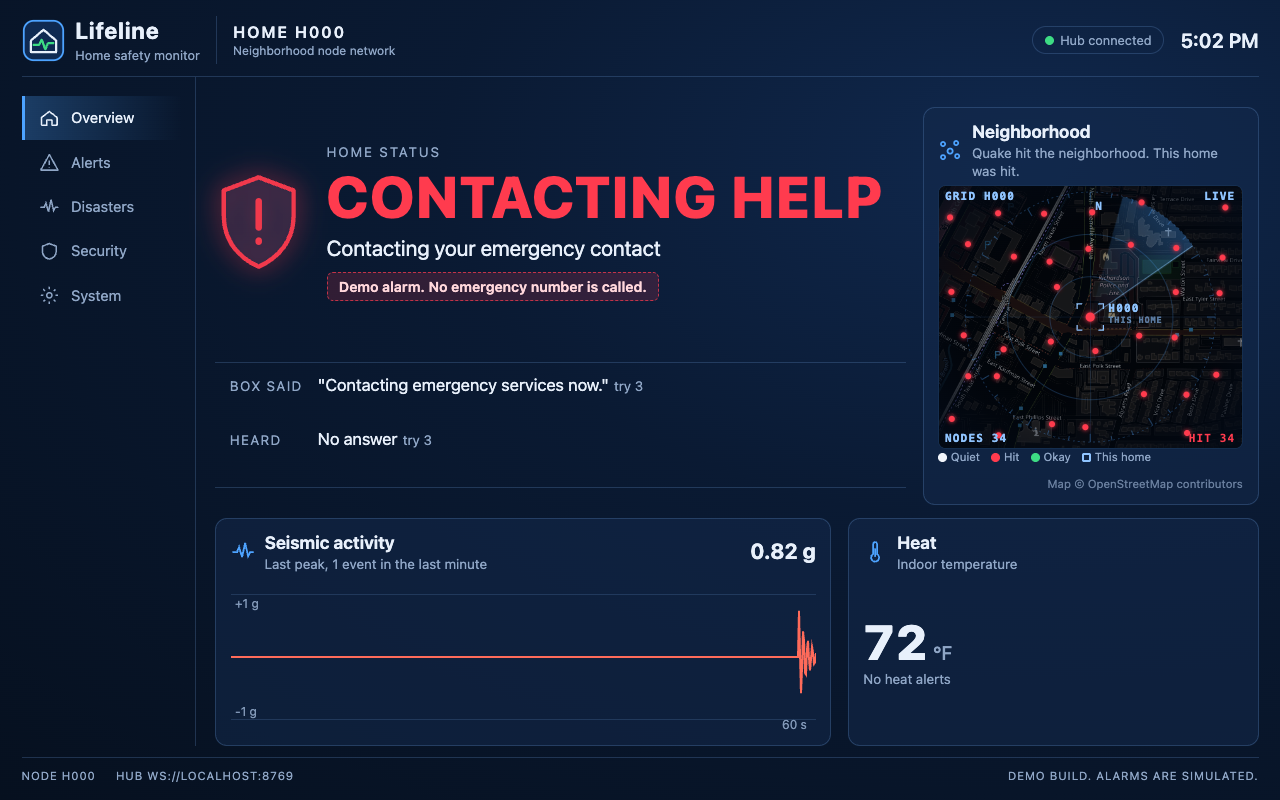
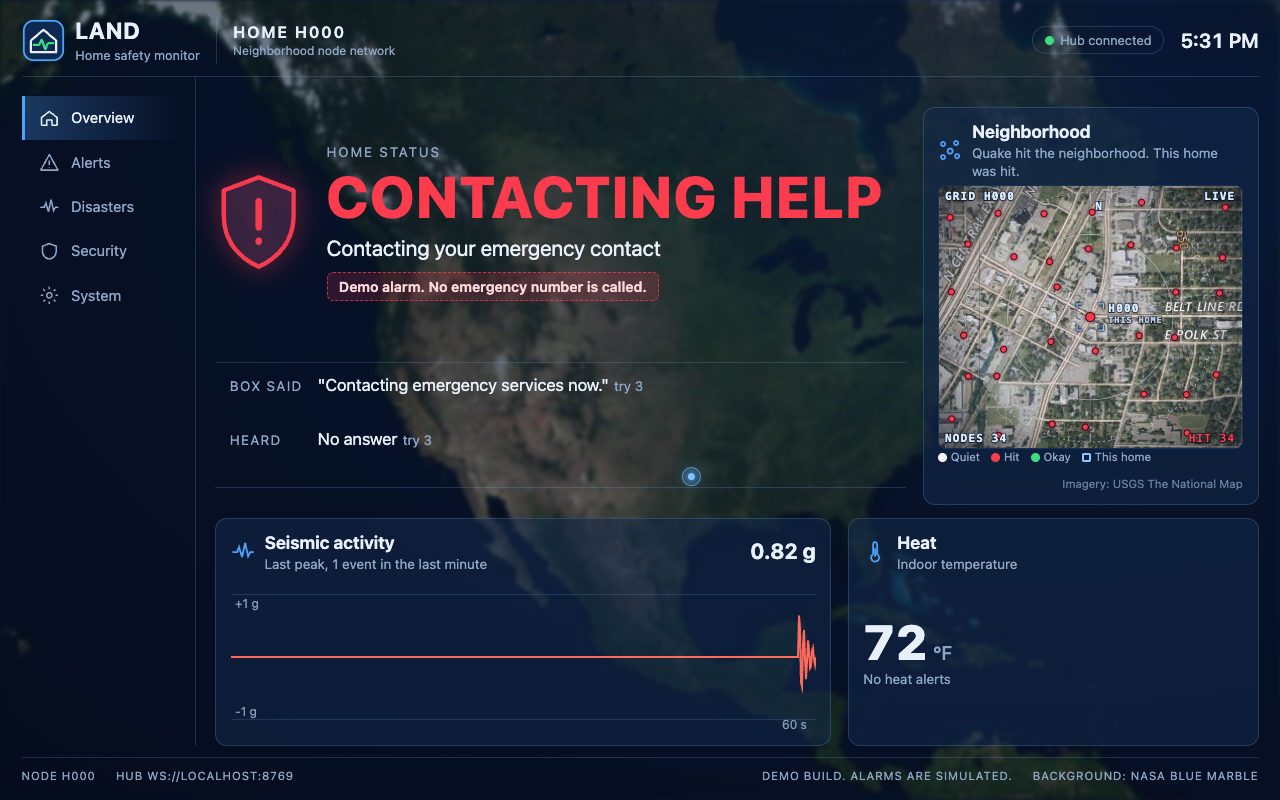
Home screen: USGS satellite neighborhood map and NASA Blue Marble background

diff --git a/software/web/home/index.html b/software/web/home/index.html
@@ -158,27 +158,32 @@
   #map { flex: 1; width: 100%; min-height: 0; margin-top: 0.4em; }
   .map .legend { display: flex; gap: 1em; color: var(--muted); font-size: calc(var(--u) * 0.85); flex-wrap: wrap; }
   .map .legend i { display: inline-block; width: 0.75em; height: 0.75em; border-radius: 50%; margin-right: 0.35em; vertical-align: -0.05em; }
-  #map { background: radial-gradient(circle at 50% 50%, rgba(20, 60, 110, 0.35), rgba(3, 10, 22, 0.6) 70%); border-radius: 8px; border: 1px solid rgba(77, 163, 255, 0.18); }
-  .basemap { filter: invert(1) hue-rotate(185deg) brightness(0.75) contrast(1.15) saturate(0.55); opacity: 0.85; }
+  #map { background: #0b1a2e; border-radius: 8px; border: 1px solid rgba(77, 163, 255, 0.18); }
   .map .credit { margin-left: auto; opacity: 0.7; }
-  .range { fill: none; stroke: rgba(77, 163, 255, 0.28); stroke-width: 0.8; }
+  .range { fill: none; stroke: rgba(255, 255, 255, 0.6); stroke-width: 0.8; filter: drop-shadow(0 0 0.6px rgba(3, 10, 22, 0.9)); }
   .range:last-of-type { stroke-dasharray: 2 3; }
-  .cross { stroke: rgba(77, 163, 255, 0.16); stroke-width: 0.6; }
-  .tick { stroke: rgba(77, 163, 255, 0.45); stroke-width: 0.8; }
-  .sweep { transform-origin: 150px 130px; animation: spin 5s linear infinite; }
-  .sweep-edge { stroke: rgba(140, 200, 255, 0.7); stroke-width: 1; }
+  .cross { stroke: rgba(255, 255, 255, 0.25); stroke-width: 0.5; }
+  .tick { stroke: rgba(255, 255, 255, 0.7); stroke-width: 0.7; }
+  .sweep { transform-origin: 150px 130px; animation: spin 6s linear infinite; }
+  .sweep-edge { stroke: rgba(225, 240, 255, 0.5); stroke-width: 0.7; }
   @keyframes spin { to { transform: rotate(360deg); } }
-  .hud { fill: #8fc4ff; font: 600 8px ui-monospace, "SF Mono", Menlo, Consolas, monospace; letter-spacing: 0.1em; font-size: 11px; }
-  .hud.dim { fill: rgba(143, 196, 255, 0.6); font-size: 8.5px; }
+  .hud { fill: #d6ebff; font: 600 8px ui-monospace, "SF Mono", Menlo, Consolas, monospace; letter-spacing: 0.1em; font-size: 11px; paint-order: stroke; stroke: rgba(3, 10, 22, 0.75); stroke-width: 2.5px; stroke-linejoin: round; }
+  .hud.dim { fill: rgba(214, 235, 255, 0.85); font-size: 8.5px; }
   .hud.alarm { fill: var(--danger); }
-  .reticle { fill: none; stroke: #8fc4ff; stroke-width: 1.3; }
-  .node { fill: #f2f6fc; transition: fill 0.25s; }
+  .reticle { fill: none; stroke: #8fc4ff; stroke-width: 1.3; filter: drop-shadow(0 0 1px #030a16) drop-shadow(0 0 1px #030a16); }
+  .node { fill: #f2f6fc; stroke: rgba(3, 10, 22, 0.85); stroke-width: 1.1; transition: fill 0.25s; }
   .node.hit { fill: var(--danger); }
   .node.ok { fill: var(--ok); }
   .wave { fill: none; stroke: var(--danger); stroke-width: 2; opacity: 0; }
   .wave.go { animation: wave 1.6s ease-out forwards; }
   @keyframes wave { from { r: 4; opacity: 0.9; } to { r: 160; opacity: 0; } }
   @media (prefers-reduced-motion: reduce) { .wave.go, .sweep { animation: none; } .node { transition: none; } }
+
+  /* NASA Blue Marble, pinned on Richardson, TX */
+  .earth { position: fixed; inset: 0; width: 100%; height: 100%; z-index: -1; pointer-events: none; }
+  .earth image { opacity: 0.4; filter: blur(2px) brightness(1.2) saturate(1.1); }
+  .earth .pin { fill: #7cc4ff; filter: drop-shadow(0 0 4px #4da3ff) drop-shadow(0 0 10px #4da3ff); }
+  .earth .pin-halo { fill: rgba(77, 163, 255, 0.18); stroke: rgba(124, 196, 255, 0.6); stroke-width: 1; }
 
   footer {
     grid-column: 1 / -1; display: flex; gap: calc(var(--u) * 1.5); align-items: center;
@@ -189,6 +194,12 @@
 </style>
 </head>
 <body data-status="PROTECTED">
+<!-- GIBS BlueMarble_NextGeneration zoom 4, tiles x 1-5, y 4-7, cropped 150 px from the top. The pin is lat 32.9483, lon -96.7299 in that image. -->
+<svg class="earth" viewBox="0 0 1280 800" preserveAspectRatio="xMidYMid slice" aria-hidden="true">
+  <image href="map/blue-marble-north-america.jpg" width="1280" height="800"/>
+  <circle class="pin-halo" cx="691.4" cy="476.6" r="9"/>
+  <circle class="pin" cx="691.4" cy="476.6" r="3.5"/>
+</svg>
 <div class="app">
   <header>
     <div class="brand">
@@ -261,7 +272,7 @@
         <div><div class="card-title">Neighborhood</div><div class="card-sub" id="map-sub">All homes quiet</div></div>
       </div>
       <svg id="map" viewBox="0 0 300 260" aria-label="Neighborhood node map"></svg>
-      <div class="legend"><span><i style="background:#f2f6fc"></i>Quiet</span><span><i style="background:var(--danger)"></i>Hit</span><span><i style="background:var(--ok)"></i>Okay</span><span><i style="border:2px solid #8fc4ff;border-radius:2px"></i>This home</span><span class="credit">Map &copy; OpenStreetMap contributors</span></div>
+      <div class="legend"><span><i style="background:#f2f6fc"></i>Quiet</span><span><i style="background:var(--danger)"></i>Hit</span><span><i style="background:var(--ok)"></i>Okay</span><span><i style="border:2px solid #8fc4ff;border-radius:2px"></i>This home</span><span class="credit">Imagery: USGS The National Map</span></div>
     </section>
 
     <div class="cards">
@@ -290,6 +301,7 @@
     <span>Node H000</span><span id="hub-url"></span>
     <span class="spacer"></span>
     <span>Demo build. Alarms are simulated.</span>
+    <span>Background: NASA Blue Marble</span>
   </footer>
 </div>
 <script type="module" src="./app.js"></script>

diff --git a/software/web/home/app.js b/software/web/home/app.js
@@ -51,26 +51,26 @@ const map = $('map');
 map.innerHTML = `
   <defs>
     <filter id="glow" x="-100%" y="-100%" width="300%" height="300%">
-      <feGaussianBlur stdDeviation="2.2" result="b"/>
+      <feGaussianBlur stdDeviation="1.6" result="b"/>
       <feMerge><feMergeNode in="b"/><feMergeNode in="SourceGraphic"/></feMerge>
     </filter>
     <linearGradient id="sweep-fill" x1="0" y1="0" x2="1" y2="0">
-      <stop offset="0" stop-color="#4da3ff" stop-opacity="0"/>
-      <stop offset="1" stop-color="#4da3ff" stop-opacity="0.32"/>
+      <stop offset="0" stop-color="#bfe0ff" stop-opacity="0"/>
+      <stop offset="1" stop-color="#bfe0ff" stop-opacity="0.16"/>
     </linearGradient>
     <radialGradient id="vignette" cx="50%" cy="50%" r="65%">
-      <stop offset="0.45" stop-color="#030a16" stop-opacity="0"/>
-      <stop offset="1" stop-color="#030a16" stop-opacity="0.85"/>
+      <stop offset="0.6" stop-color="#030a16" stop-opacity="0"/>
+      <stop offset="1" stop-color="#030a16" stop-opacity="0.5"/>
     </radialGradient>
     <clipPath id="scope"><circle cx="${HOME.x}" cy="${HOME.y}" r="124"/></clipPath>
   </defs>`;
 
-// OpenStreetMap tiles of Richardson, TX (zoom 16), saved in map/ so the page works offline.
-const TILE = 160;
-const basemap = svgEl('g', { class: 'basemap' }, map);
-for (const [col, x] of [[0, 15158], [1, 15159]]) {
-  for (const [row, y] of [[0, 26408], [1, 26409]]) {
-    svgEl('image', { href: `map/16-${x}-${y}.png`, x: -10 + col * TILE, y: -30 + row * TILE, width: TILE, height: TILE }, basemap);
+// USGS The National Map imagery of Richardson, TX (zoom 15, public domain), saved in map/ so the page works offline.
+// Offsets put lat 32.9483, lon -96.7299 on HOME.
+const TILE = 256;
+for (const [col, x] of [[0, 7578], [1, 7579], [2, 7580]]) {
+  for (const [row, y] of [[0, 13204], [1, 13205]]) {
+    svgEl('image', { href: `map/15-${x}-${y}.jpg`, x: -216 + col * TILE, y: -11 + row * TILE, width: TILE, height: TILE }, map);
   }
 }
 svgEl('rect', { width: 300, height: 260, fill: 'url(#vignette)' }, map);
